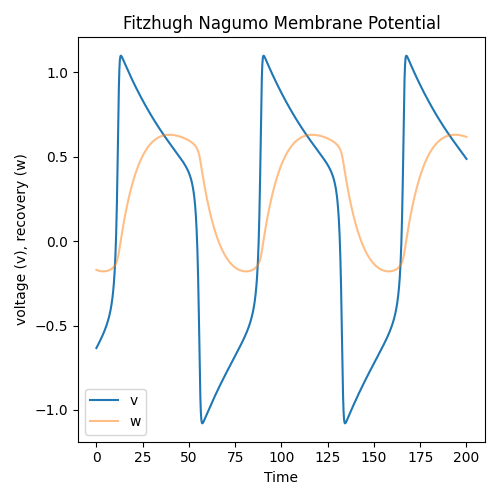
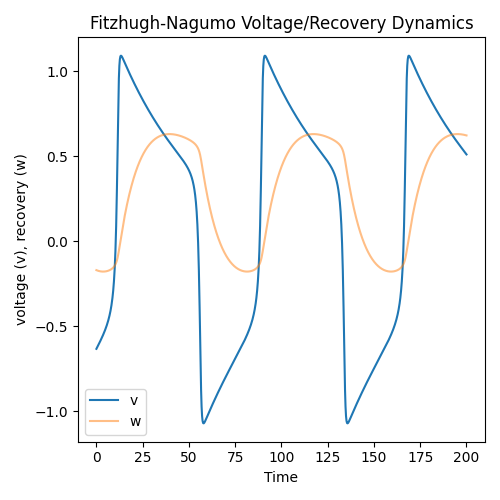
edit to fn-cell tutorial

diff --git a/docs/tutorials/neurocog/fitzhugh_nagumo_cell.md b/docs/tutorials/neurocog/fitzhugh_nagumo_cell.md
@@ -54,6 +54,7 @@ single component system made up of the Fitzhugh-Nagumo (`F-N`) cell.
 ```python
 from ngcsimlib.controller import Controller
 from jax import numpy as jnp, random, nn, jit
+import numpy as np
 
 import matplotlib #.pyplot as plt
 matplotlib.use('Agg')
@@ -138,7 +139,6 @@ spk_rec = []
 i_app = 0.23 ## electrical current to inject into F-N cell
 data = jnp.asarray([[i_app]], dtype=jnp.float32)
 
-#dt = 0.13342228152101404 ## integration time constant
 T = 1500 ## number of simulation steps to run
 time_span = np.linspace(0, 200, num=T)
 
@@ -162,28 +162,25 @@ for ts in range(T):
     print(" {}: s {} ; v {} ; w {}".format(ts, s, v, w))
 
 ## Post-process statistics and create plot
-import numpy as np
 curr_in = np.squeeze(np.asarray(curr_in))
 mem_rec = np.squeeze(np.asarray(mem_rec))
 recov_rec = np.squeeze(np.asarray(recov_rec))
 spk_rec = np.squeeze(np.asarray(spk_rec))
 
 # Plot the F-N cell trajectory
-n_scenarios = 1
-fig, ax = plt.subplots(1, n_scenarios, figsize=(5*n_scenarios,5))
+n_plots = 1
+fig, ax = plt.subplots(1, n_plots, figsize=(5*n_plots,5))
 
 ax_ptr = ax
-if n_scenarios > 1:
-    ax_ptr = ax[i]
 ax_ptr.set(xlabel='Time', ylabel='voltage (v), recovery (w)',
-           title='Fitzhugh Nagumo Voltage/Recovery Dynamics')
+           title='Fitzhugh-Nagumo Voltage/Recovery Dynamics')
 
 v = ax_ptr.plot(time_span, mem_rec, color='C0')
 w = ax_ptr.plot(time_span, recov_rec, color='C1', alpha=.5)
 ax_ptr.legend([v[0],w[0]],['v','w'])
 
 plt.tight_layout()
-plt.savefig("{0}".format("fncell_plot.png"))#, dpi=300)
+plt.savefig("{0}".format("fncell_plot.png"))
 ```
 
 You should get a plot that depicts the evolution of the voltage and recovery,
